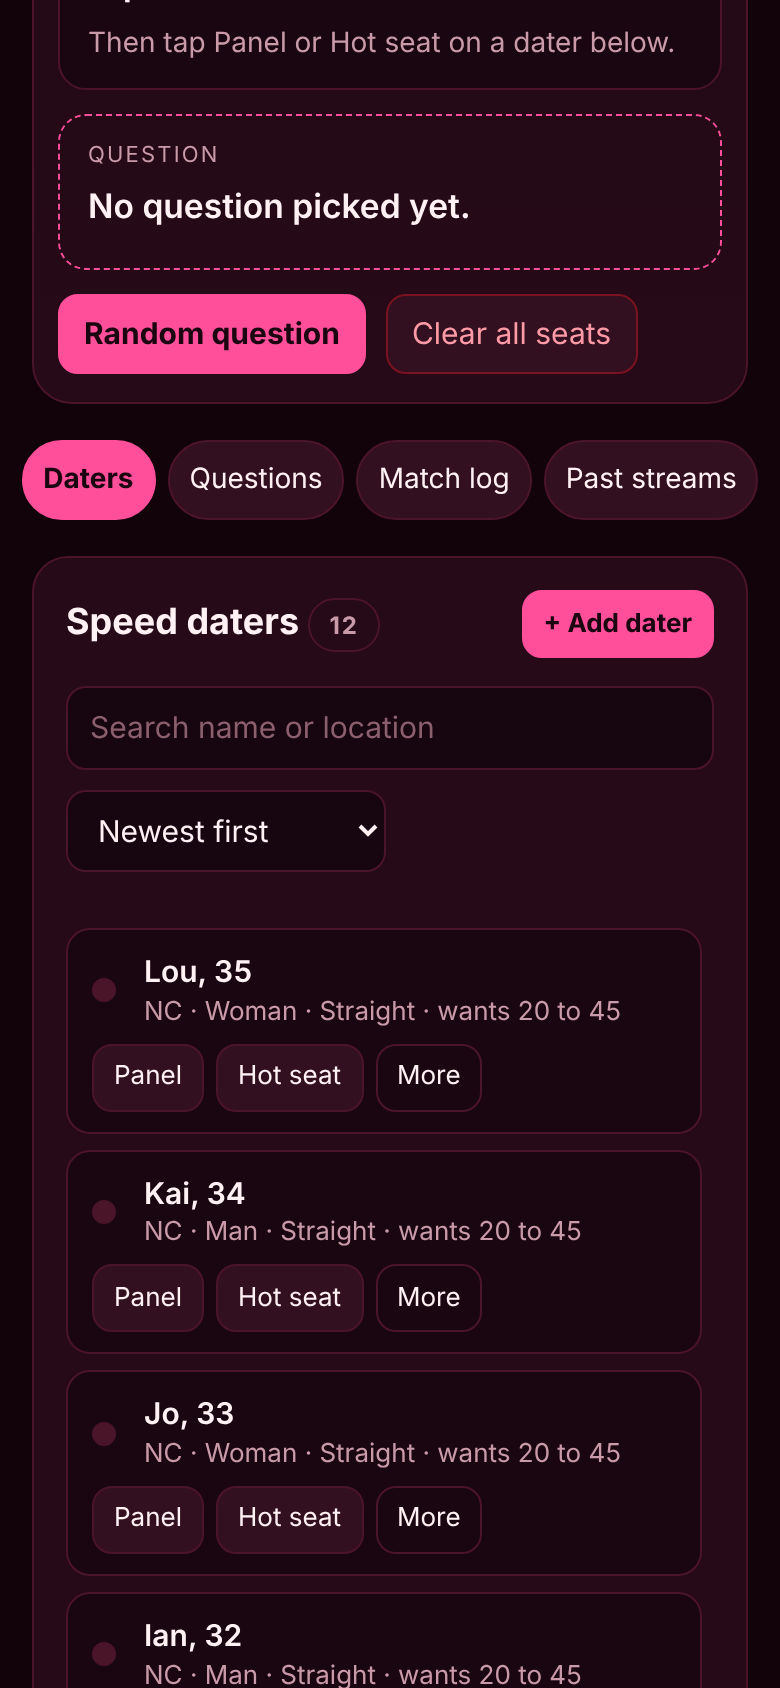
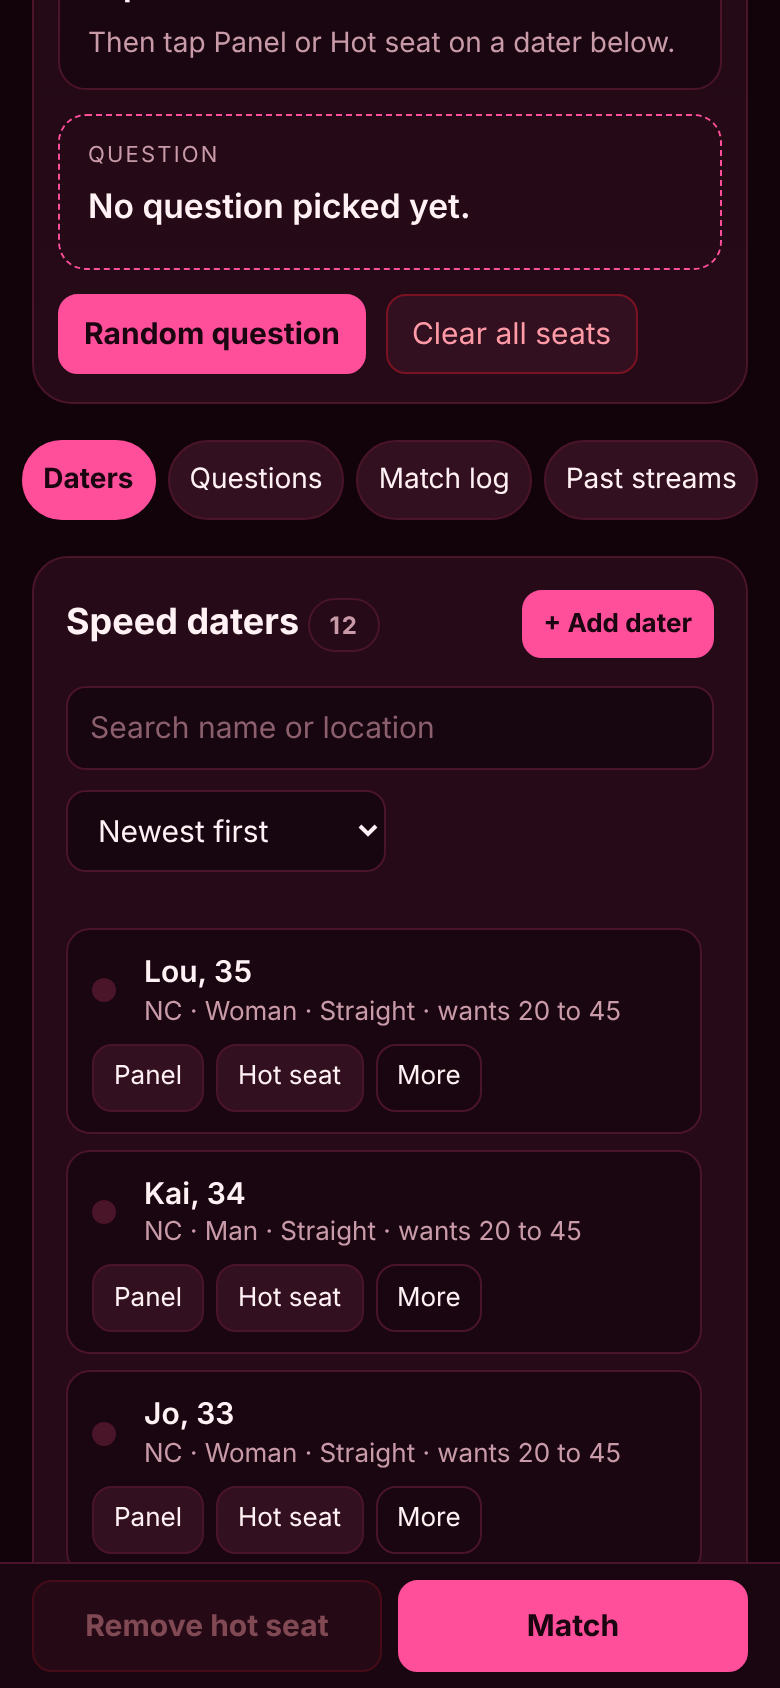
Bottom bar for hosts: Remove hot seat and Match (Random question removed from the bar)
Claude-Session: https://claude.ai/code/session_011VuQnLVSGC1wQun5u45WSF

Changed region(s): [[0.0923, 0.9242, 0.9846, 1.0], [0.0308, 0.9858, 0.0923, 1.0], [0.0308, 0.9242, 0.0615, 0.955]]

diff --git a/public/index.html b/public/index.html
@@ -168,7 +168,8 @@ label { display: flex; flex-direction: column; gap: 4px; font-size: 12px; color:
 #connPill[data-state="live"] #connTxt { position: absolute; width: 1px; height: 1px; overflow: hidden; clip: rect(0 0 0 0); white-space: nowrap; }
 #connPill[data-state="offline"] .cd { background: var(--nofit); }
 .livebar { position: fixed; left: 0; right: 0; bottom: 0; z-index: 9; display: flex; gap: 8px; align-items: center; padding: 8px max(16px, calc((100vw - 980px) / 2)) calc(8px + env(safe-area-inset-bottom, 0px)); background: #1a0610; border-top: 1px solid var(--line); }
-.livebar .lbq { flex: 1 1 auto; min-width: 0; overflow: hidden; text-overflow: ellipsis; white-space: nowrap; font-weight: 600; }
+.livebar button { flex: 1 1 0; min-height: 46px; font-weight: 700; }
+.livebar .armed { background: var(--mutual); color: #06210f; border-color: var(--mutual); animation: pulse 1s ease-in-out infinite alternate; }
 body.has-bar { padding-bottom: 96px; }
 body.has-bar .toast { bottom: calc(80px + env(safe-area-inset-bottom, 0px)); }
 .tab[aria-selected="true"] { background: var(--pink); color: #1a0510; border-color: var(--pink); font-weight: 700; }
@@ -399,9 +400,8 @@ body.has-bar .toast { bottom: calc(80px + env(safe-area-inset-bottom, 0px)); }
   </div>
 </div>
 <div class="livebar" id="liveBar" hidden>
-  <span class="lbq" id="lbQ"></span>
-  <button class="ghost small" id="lbBack" type="button" hidden>Back</button>
-  <button class="primary small" id="lbRandom" type="button">Random question</button>
+  <button class="danger" id="lbRemoveHot" type="button" disabled>Remove hot seat</button>
+  <button class="primary" id="lbMatch" type="button">Match</button>
 </div>
 <div class="toast" id="toast" hidden></div>
 
@@ -569,6 +569,7 @@ body.has-bar .toast { bottom: calc(80px + env(safe-area-inset-bottom, 0px)); }
     if (state.mode === "host") {
       var mb = el("button", "primary matchbtn" + (state.matching ? " armed" : ""), state.matching ? "Pick?" : "Match");
       mb.type = "button"; mb.onclick = onMatch; $("rHot").appendChild(mb);
+      $("lbMatch").textContent = state.matching ? "Pick?" : "Match"; $("lbMatch").classList.toggle("armed", !!state.matching);
     } else state.matching = false;
     var side = $("side"); side.textContent = "";
     SIDE.forEach(function (k) {
@@ -586,7 +587,7 @@ body.has-bar .toast { bottom: calc(80px + env(safe-area-inset-bottom, 0px)); }
     $("qtext").textContent = q && q.text ? q.text : "No question picked yet.";
     $("qby").textContent = q && q.text ? (q.handle ? "Asked by " + q.handle : "") : "";
     $("clearQ").hidden = !(state.mode === "host" && q && q.text); $("backQ").hidden = !(state.mode !== "viewer" && state.hist.length);
-    $("lbQ").textContent = $("qtext").textContent; $("lbBack").hidden = $("backQ").hidden;
+    $("lbRemoveHot").disabled = !(state.mode === "host" && byId(seatsNow().hot));
   }
 
   /* ---------- daters list ---------- */
@@ -1118,15 +1119,18 @@ body.has-bar .toast { bottom: calc(80px + env(safe-area-inset-bottom, 0px)); }
   $("pickModal").addEventListener("click", function (ev) { if (ev.target === $("pickModal")) closePicker(); });
   document.addEventListener("keydown", function (ev) { if (ev.key === "Escape" && !$("pickModal").hidden) closePicker(); });
 
-  /* ---------- pinned question bar (shows only when the question card is out of view) ---------- */
-  var qSeen = true;
+  /* ---------- bottom bar for hosts: Remove hot seat and Match ---------- */
   function syncBar() {
-    var show = state.mode !== "viewer" && !$("app").hidden && !qSeen;
+    var show = state.mode === "host" && !$("app").hidden;
     $("liveBar").hidden = !show; document.body.classList.toggle("has-bar", show);
   }
-  if ("IntersectionObserver" in window) new IntersectionObserver(function (es) { qSeen = es[0].isIntersecting; syncBar(); }).observe($("qtext").parentElement);
-  $("lbRandom").onclick = function () { $("randomQ").click(); };
-  $("lbBack").onclick = backQuestion;
+  $("lbMatch").onclick = onMatch;
+  $("lbRemoveHot").onclick = function () {
+    var s = seatsNow(), d = byId(s.hot); if (!d) return;
+    var before = {}; SEATS.forEach(function (k) { before[k] = s[k]; });
+    setSeat("hot", null);
+    toastUndo(d.name + " removed from the hot seat.", function () { state.selected = null; commitSeats(before); });
+  };
 
   /* ---------- connection pill ---------- */
   var CONN = { connecting: "Connecting", live: "Live", reconnecting: "Reconnecting", offline: "Offline" };

diff --git a/DEPLOY.md b/DEPLOY.md
@@ -310,7 +310,7 @@ npx wrangler secret put ROLES
 
 - **Seating:** tap an empty heart to open a picker. It lists the newest daters first, with search. For a panel seat the best fits (green) come first. Tap someone to seat them in the heart you tapped. **Add new dater** inside the picker opens the form, and when you save, the new dater goes straight into that seat. The Panel and Hot seat buttons on each dater still work.
 - **Adding daters:** the form is hidden until you tap **+ Add dater**. Edit and Remove are under **More** on each dater.
-- **Question bar:** when the question card is scrolled out of view (most phones, and short laptop screens), a bar pinned to the bottom shows the current question with **Random question** and **Back**. It hides itself when the real card is visible.
+- **Bottom bar (hosts only):** two big buttons stay pinned at the bottom: **Remove hot seat** and **Match**. Remove hot seat is greyed out when the hot seat is empty, empties it in one tap, and shows an **Undo** for a few seconds. Match works like the Match button beside the hot seat: tap it (it turns green and says Pick?), then tap the heart that was picked.
 - **Connection dot:** a small green dot by the role label means you are live. If the connection drops it turns amber and says Reconnecting, then red and says Offline after 10 seconds. It fixes itself when the network returns.
 
 ## Signing out
